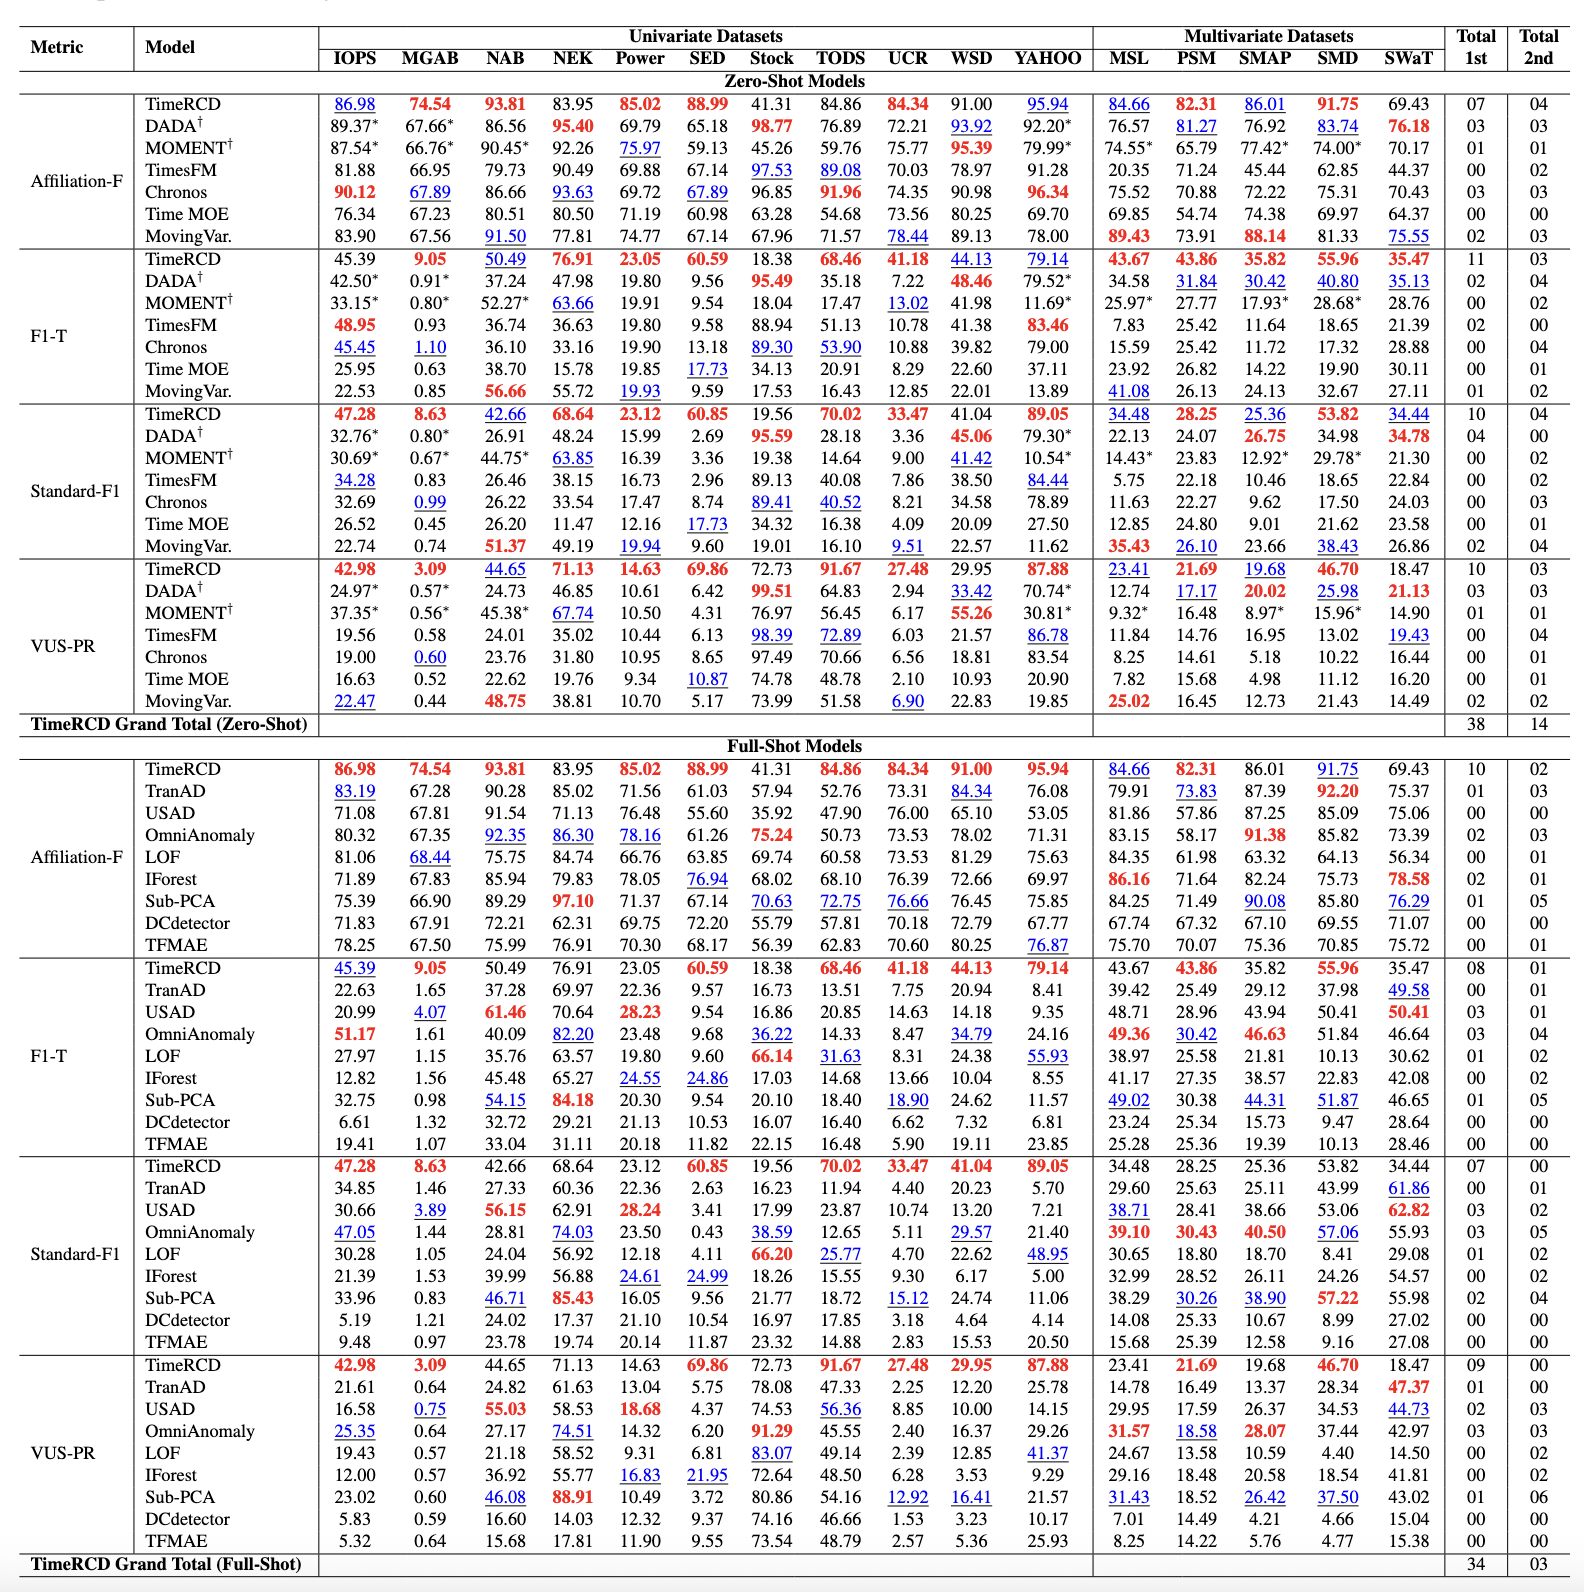
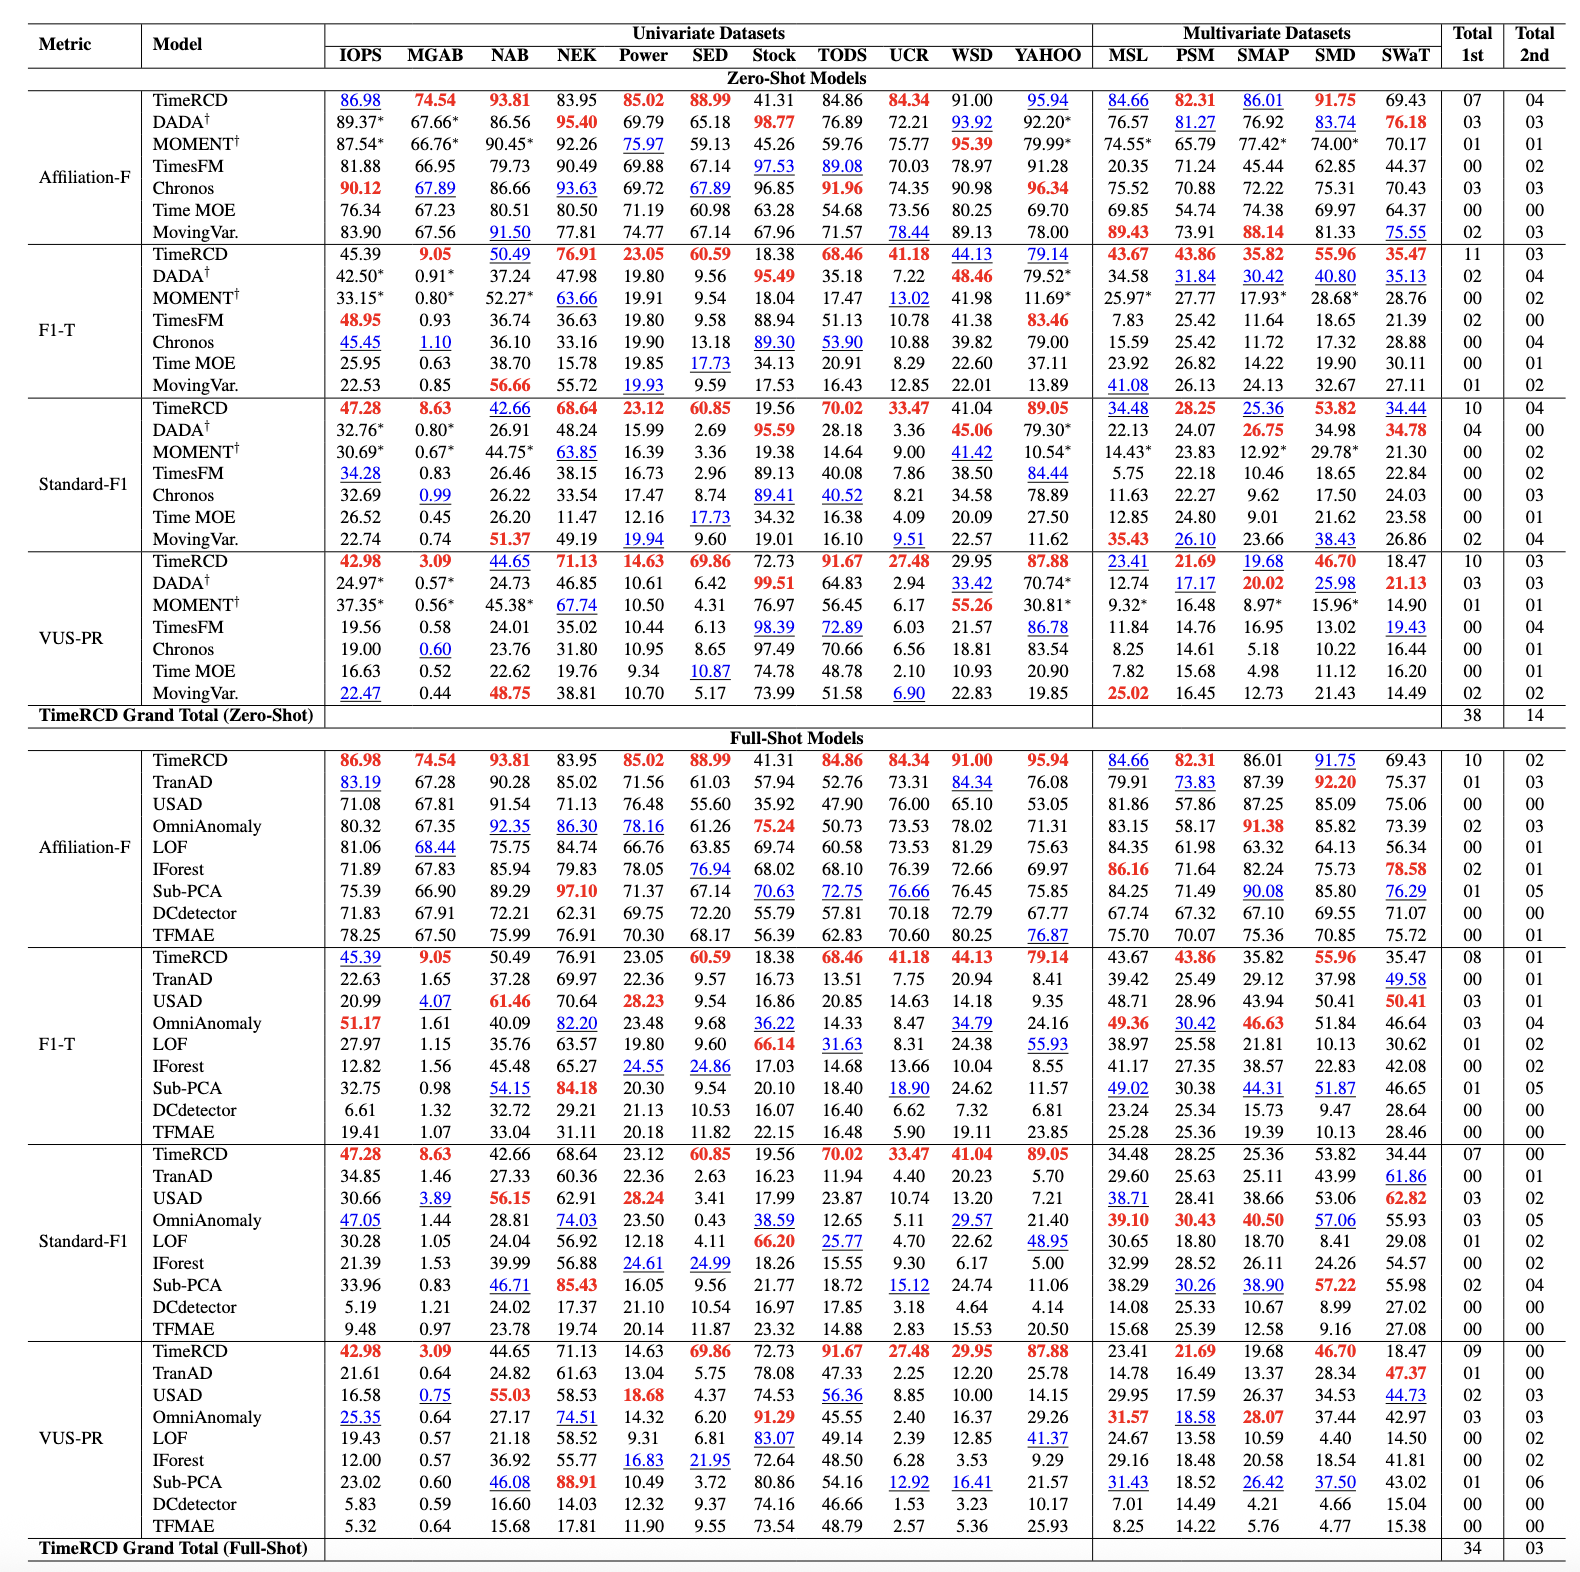
Refresh results image and README image URL

Changed region(s): [[0.0, 0.0, 0.9924, 0.9975]]

diff --git a/README.md b/README.md
@@ -33,7 +33,7 @@ _Towards Foundation Models for Zero-Shot Time Series Anomaly Detection: Leveragi
 **[🌟 Live Demo on Hugging Face Spaces](https://huggingface.co/spaces/thu-sail-lab/Time_RCD)** — try Time-RCD interactively in your browser.
 
 <div align="center">
-<img src="https://raw.githubusercontent.com/thu-sail-lab/Time-RCD/main/zero-shot.png" style="width:95%;" />
+<img src="zero-shot.png?v=977a8c9dee67" style="width:95%;" />
 </div>
 
 This repository contains:
